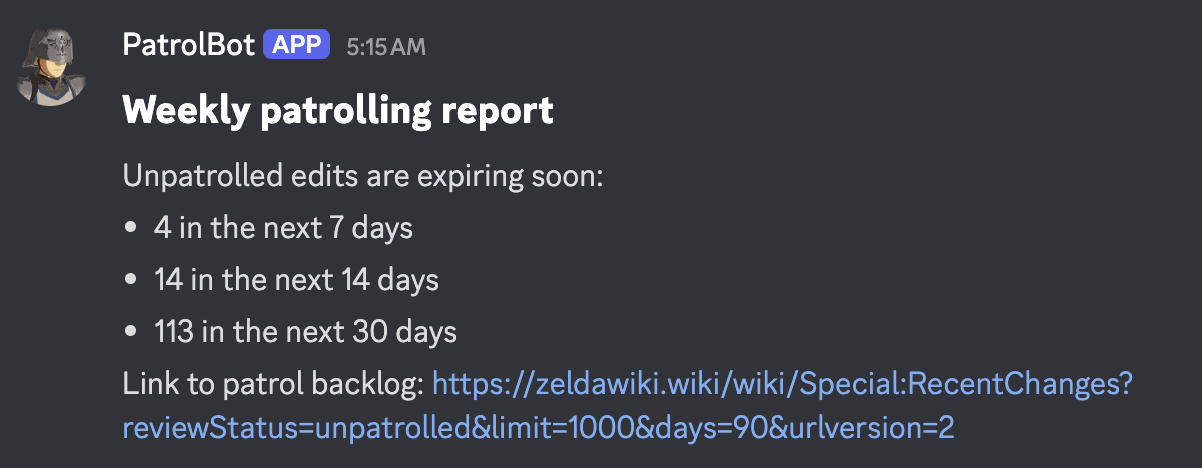
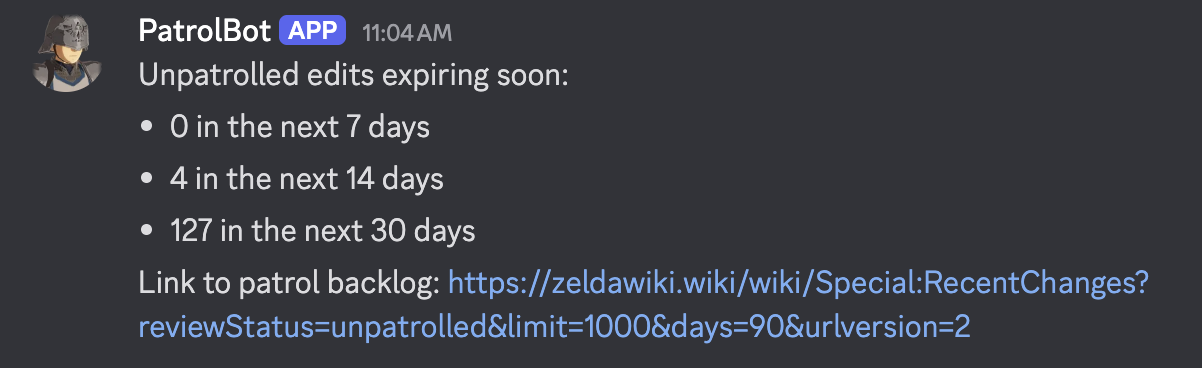
Remove weekly template in favor of expiring
expiring makes more sense as a slash command and simpler to use the same report for both slash commands and cron jobs

diff --git a/README.md b/README.md
@@ -27,7 +27,7 @@ patrolbot init
 4. Generate a report
 
 ```sh
-patrolbot report weekly
+patrolbot report expiring
 ```
 
 ## Configuration
